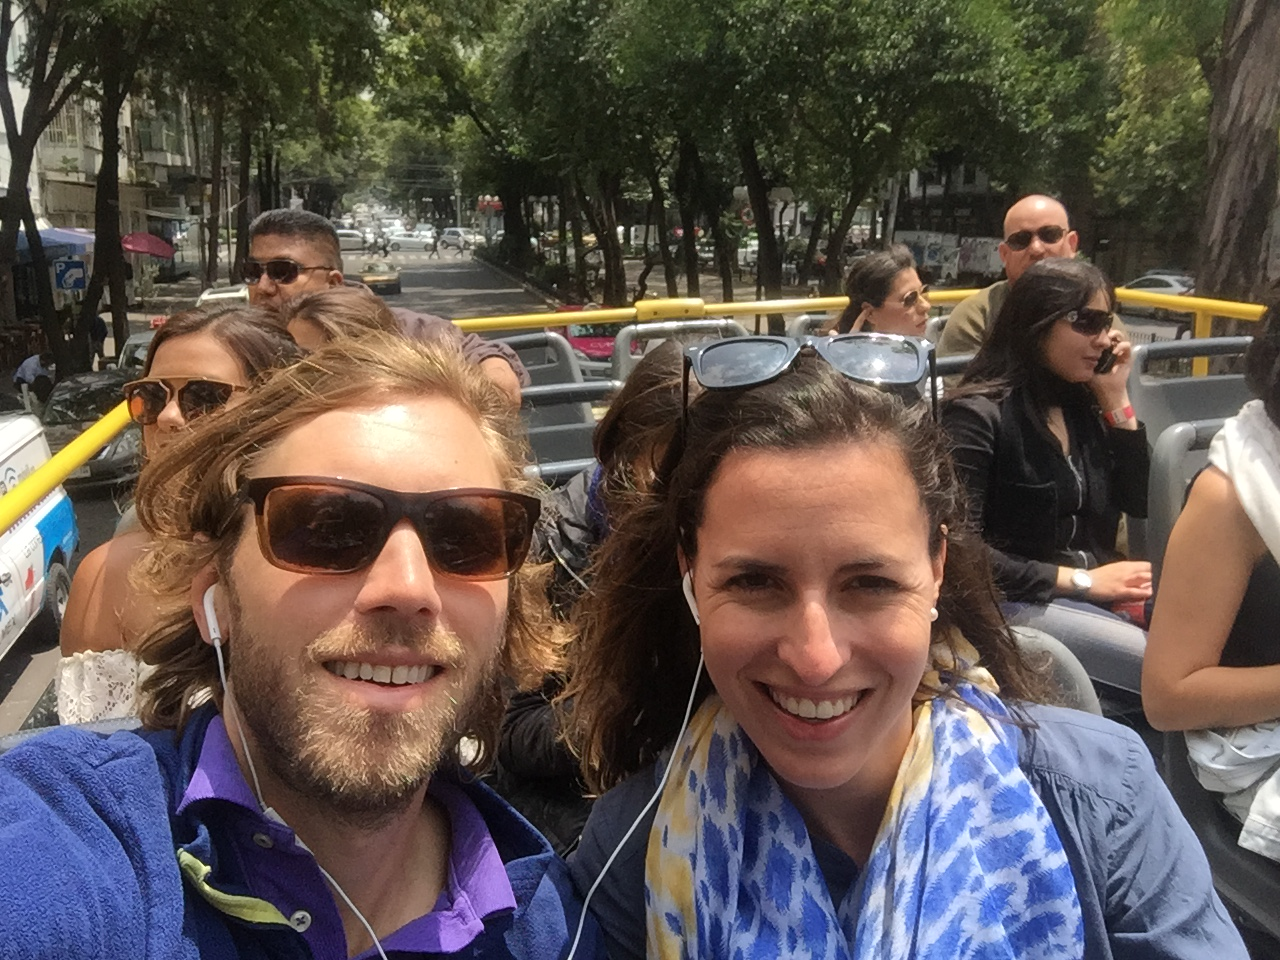
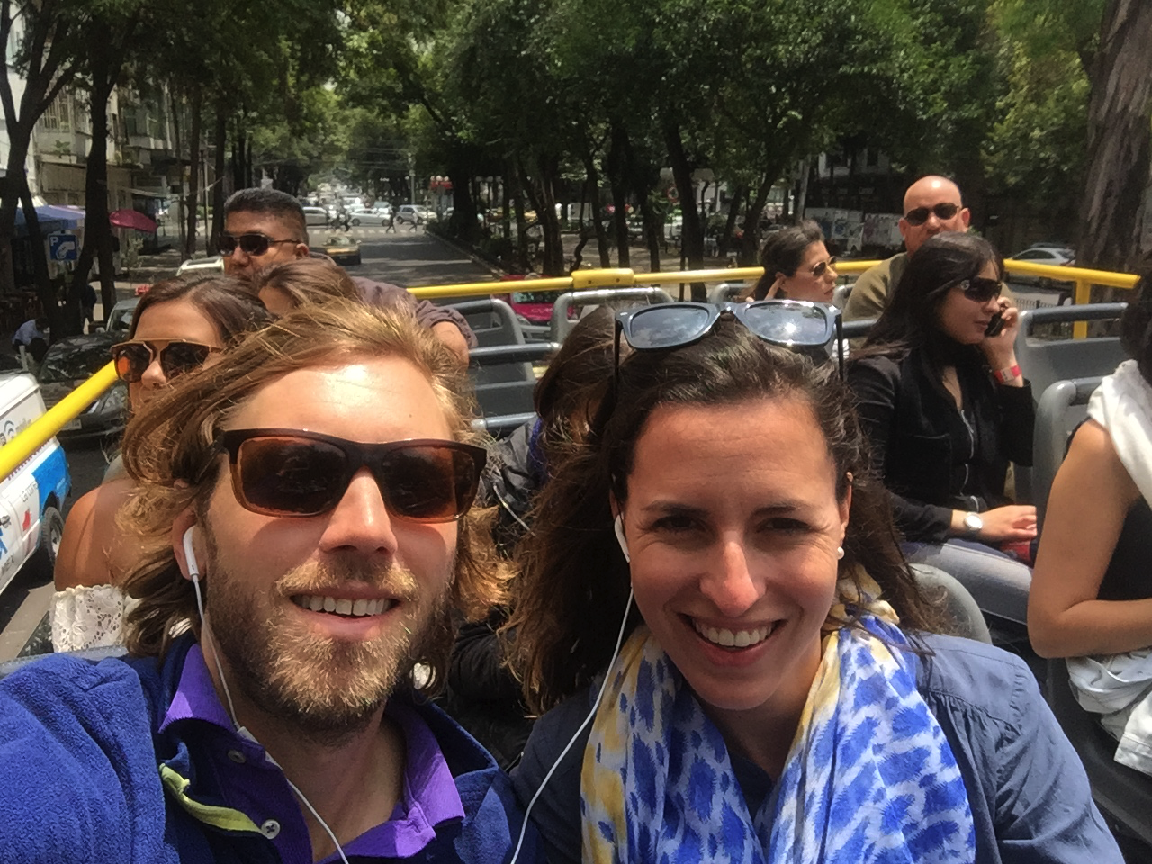
First our story created

diff --git a/app/assets/stylesheets/story.css b/app/assets/stylesheets/story.css
@@ -1,0 +1,29 @@
+#whatev {
+  display: -ms-flexbox;
+  -ms-flex-pack: center;
+  -ms-flex-align: center;
+  padding: 8em 0 6em 0;
+  -moz-align-items: center;
+  -webkit-align-items: center;
+  -ms-align-items: center;
+  align-items: center;
+  display: -moz-flex;
+  display: -webkit-flex;
+  display: -ms-flex;
+  display: flex;
+  -moz-justify-content: center;
+  -webkit-justify-content: center;
+  -ms-justify-content: center;
+  justify-content: center;
+  background: url('pic05.JPG') ;
+
+  background-position: center;
+  background-size: cover;
+  background-repeat: no-repeat;
+  border-top: 0;
+  min-height: 100vh;
+  height: 100vh !important;
+  position: relative;
+  text-align: center;
+  overflow: hidden;
+}

diff --git a/app/assets/stylesheets/our_story_controller.scss b/app/assets/stylesheets/our_story_controller.scss
@@ -1,0 +1,3 @@
+// Place all the styles related to the OurStoryController controller here.
+// They will automatically be included in application.css.
+// You can use Sass (SCSS) here: http://sass-lang.com/

diff --git a/app/assets/stylesheets/schedule.css b/app/assets/stylesheets/schedule.css
@@ -1,7 +1,6 @@
 .family-page {
   text-align: center;
   background: url('cactus.jpg') no-repeat ;
-
   font-family: 'Lato', sans-serif;
   padding: 15px;
 }

diff --git a/app/assets/stylesheets/navigation.css b/app/assets/stylesheets/navigation.css
@@ -15,7 +15,6 @@ li {
   display: inline !important;
   float: left;
   text-decoration: none !important;
-
 }
 
 a {

diff --git a/spec/helpers/our_story_controller_helper_spec.rb b/spec/helpers/our_story_controller_helper_spec.rb
@@ -1,0 +1,15 @@
+require 'rails_helper'
+
+# Specs in this file have access to a helper object that includes
+# the OurStoryControllerHelper. For example:
+#
+# describe OurStoryControllerHelper do
+#   describe "string concat" do
+#     it "concats two strings with spaces" do
+#       expect(helper.concat_strings("this","that")).to eq("this that")
+#     end
+#   end
+# end
+RSpec.describe OurStoryControllerHelper, type: :helper do
+  pending "add some examples to (or delete) #{__FILE__}"
+end

diff --git a/config/routes.rb b/config/routes.rb
@@ -18,6 +18,7 @@ Rails.application.routes.draw do
   put 'bridesmaid_update', to: 'bridesmaid#update'
   get '/registry', to: 'registry#show'
   get '/wedding_schedule', to: 'itinerary#show'
+  get '/our_story', to: 'our_story#show'
 
   namespace :admin do
     get '/dashboard', to: 'users#show'

diff --git a/spec/controllers/our_story_controller_controller_spec.rb b/spec/controllers/our_story_controller_controller_spec.rb
@@ -1,0 +1,5 @@
+require 'rails_helper'
+
+RSpec.describe OurStoryControllerController, type: :controller do
+
+end

diff --git a/app/helpers/our_story_controller_helper.rb b/app/helpers/our_story_controller_helper.rb
@@ -1,0 +1,2 @@
+module OurStoryControllerHelper
+end
